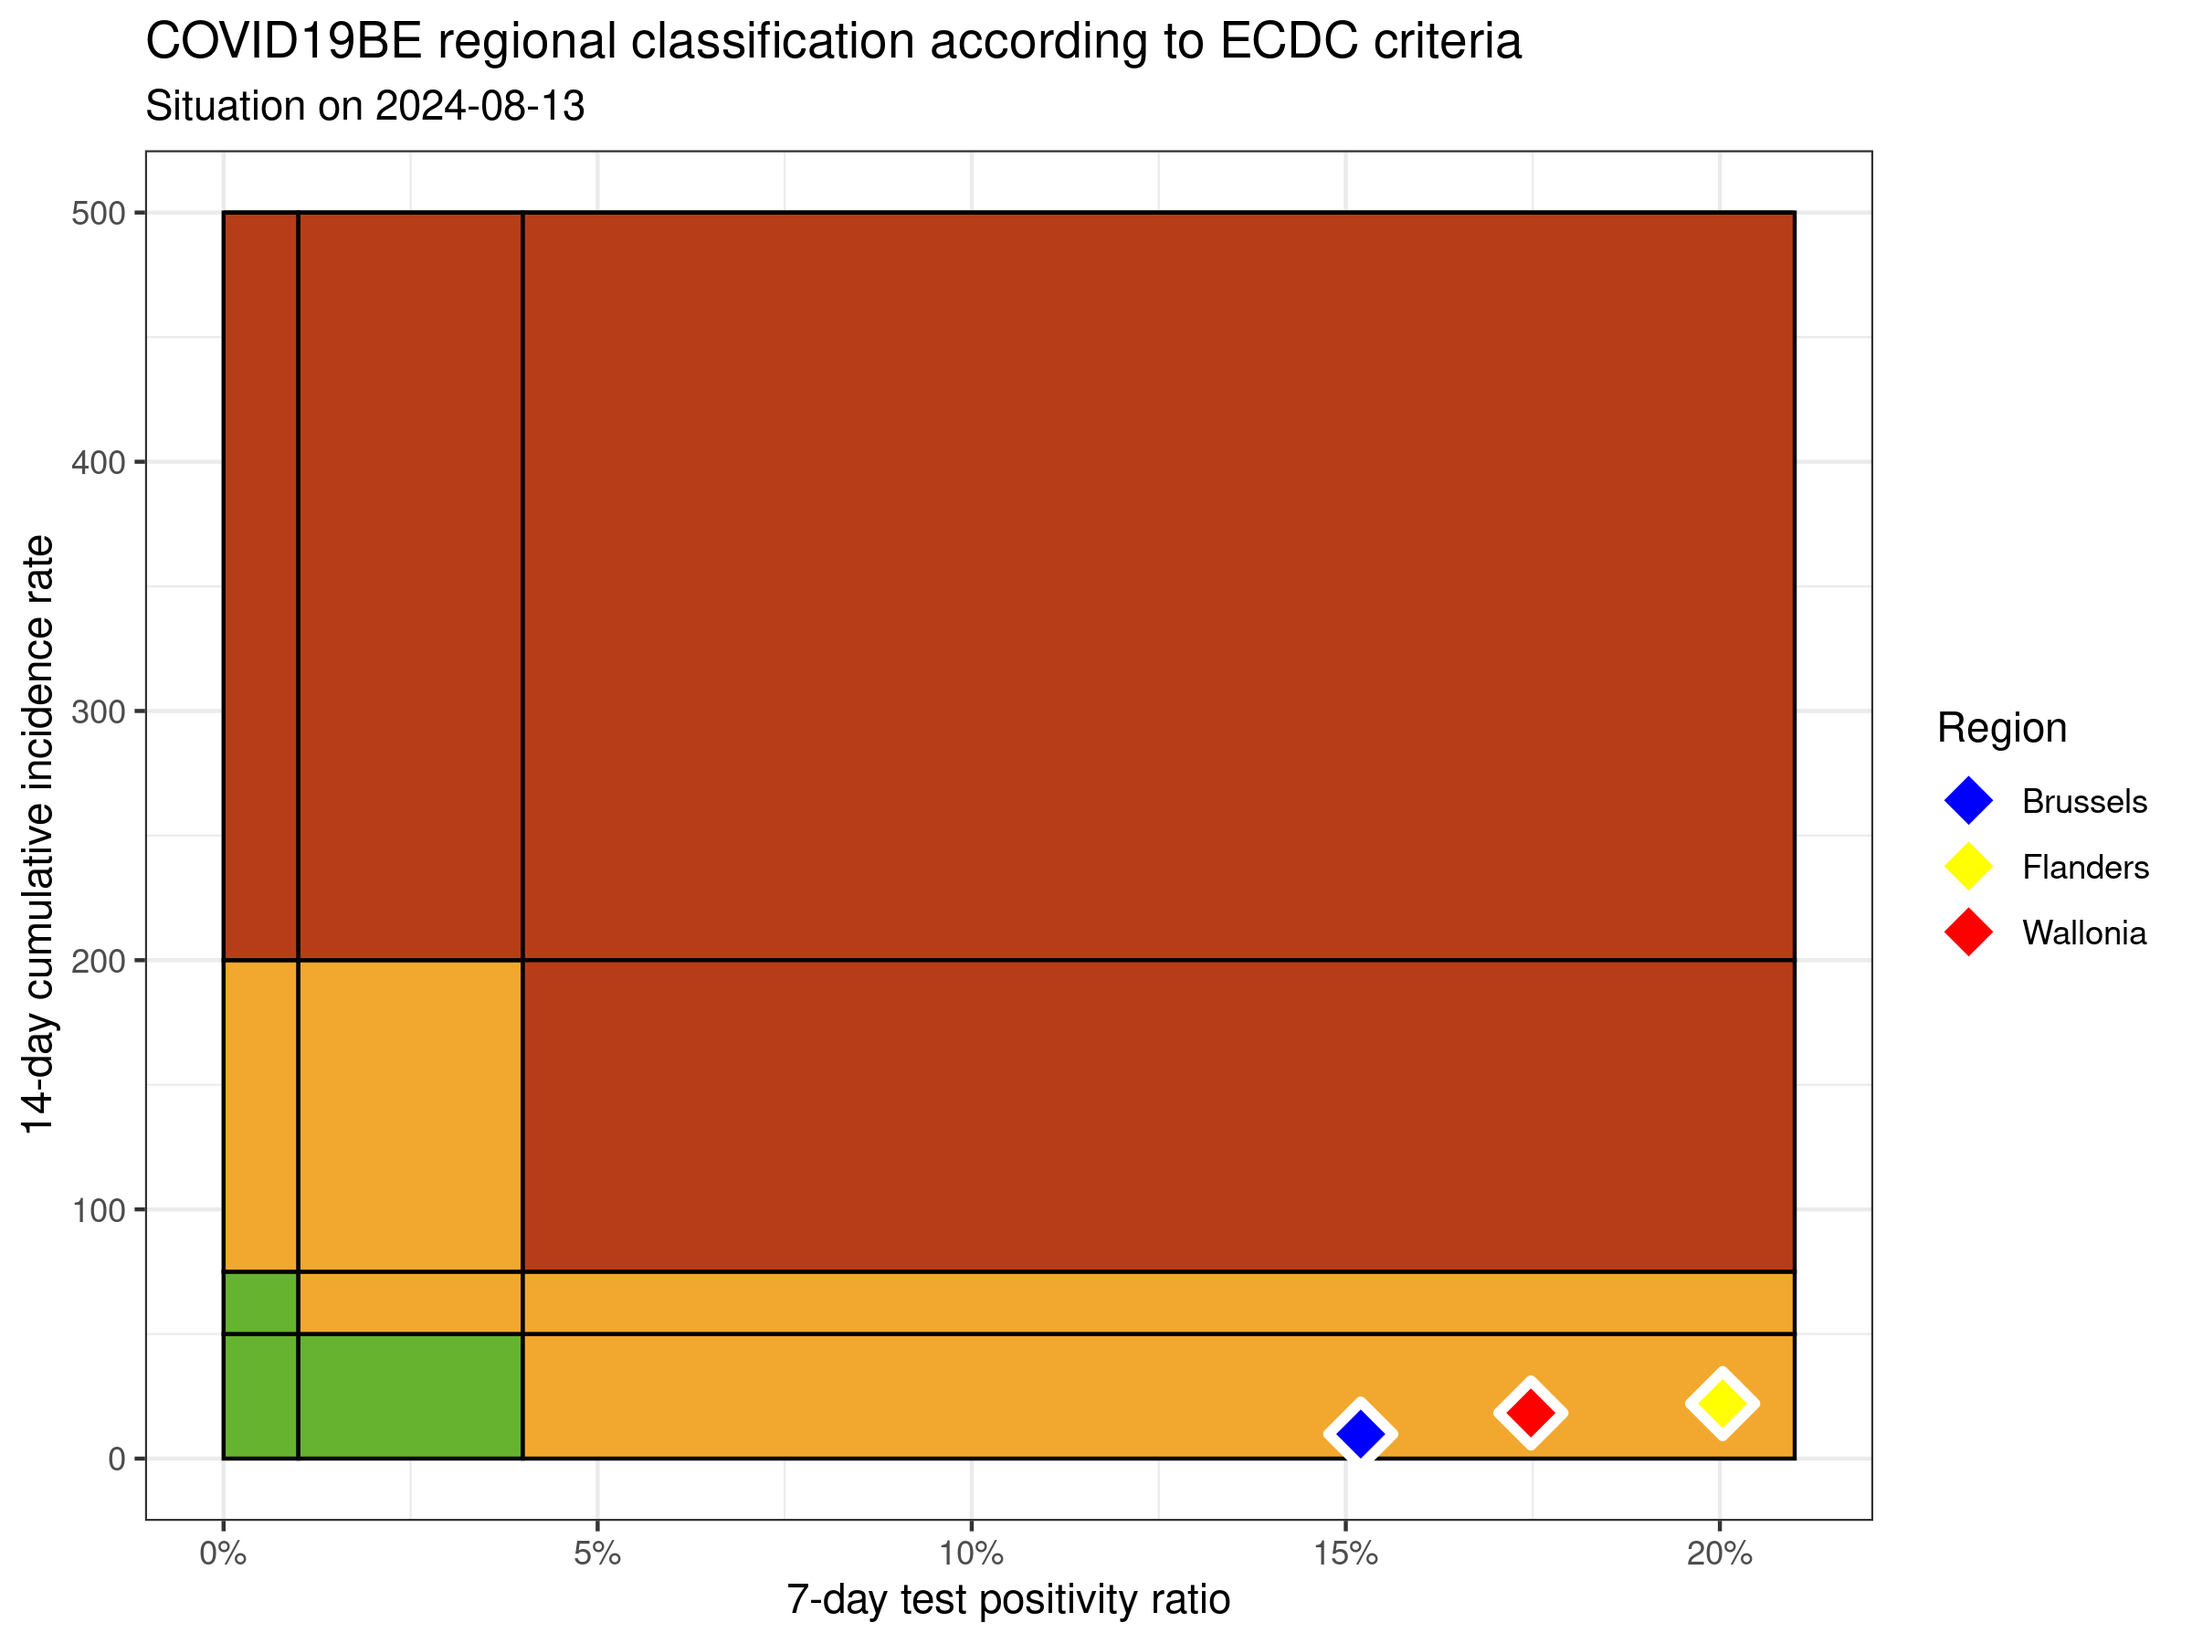
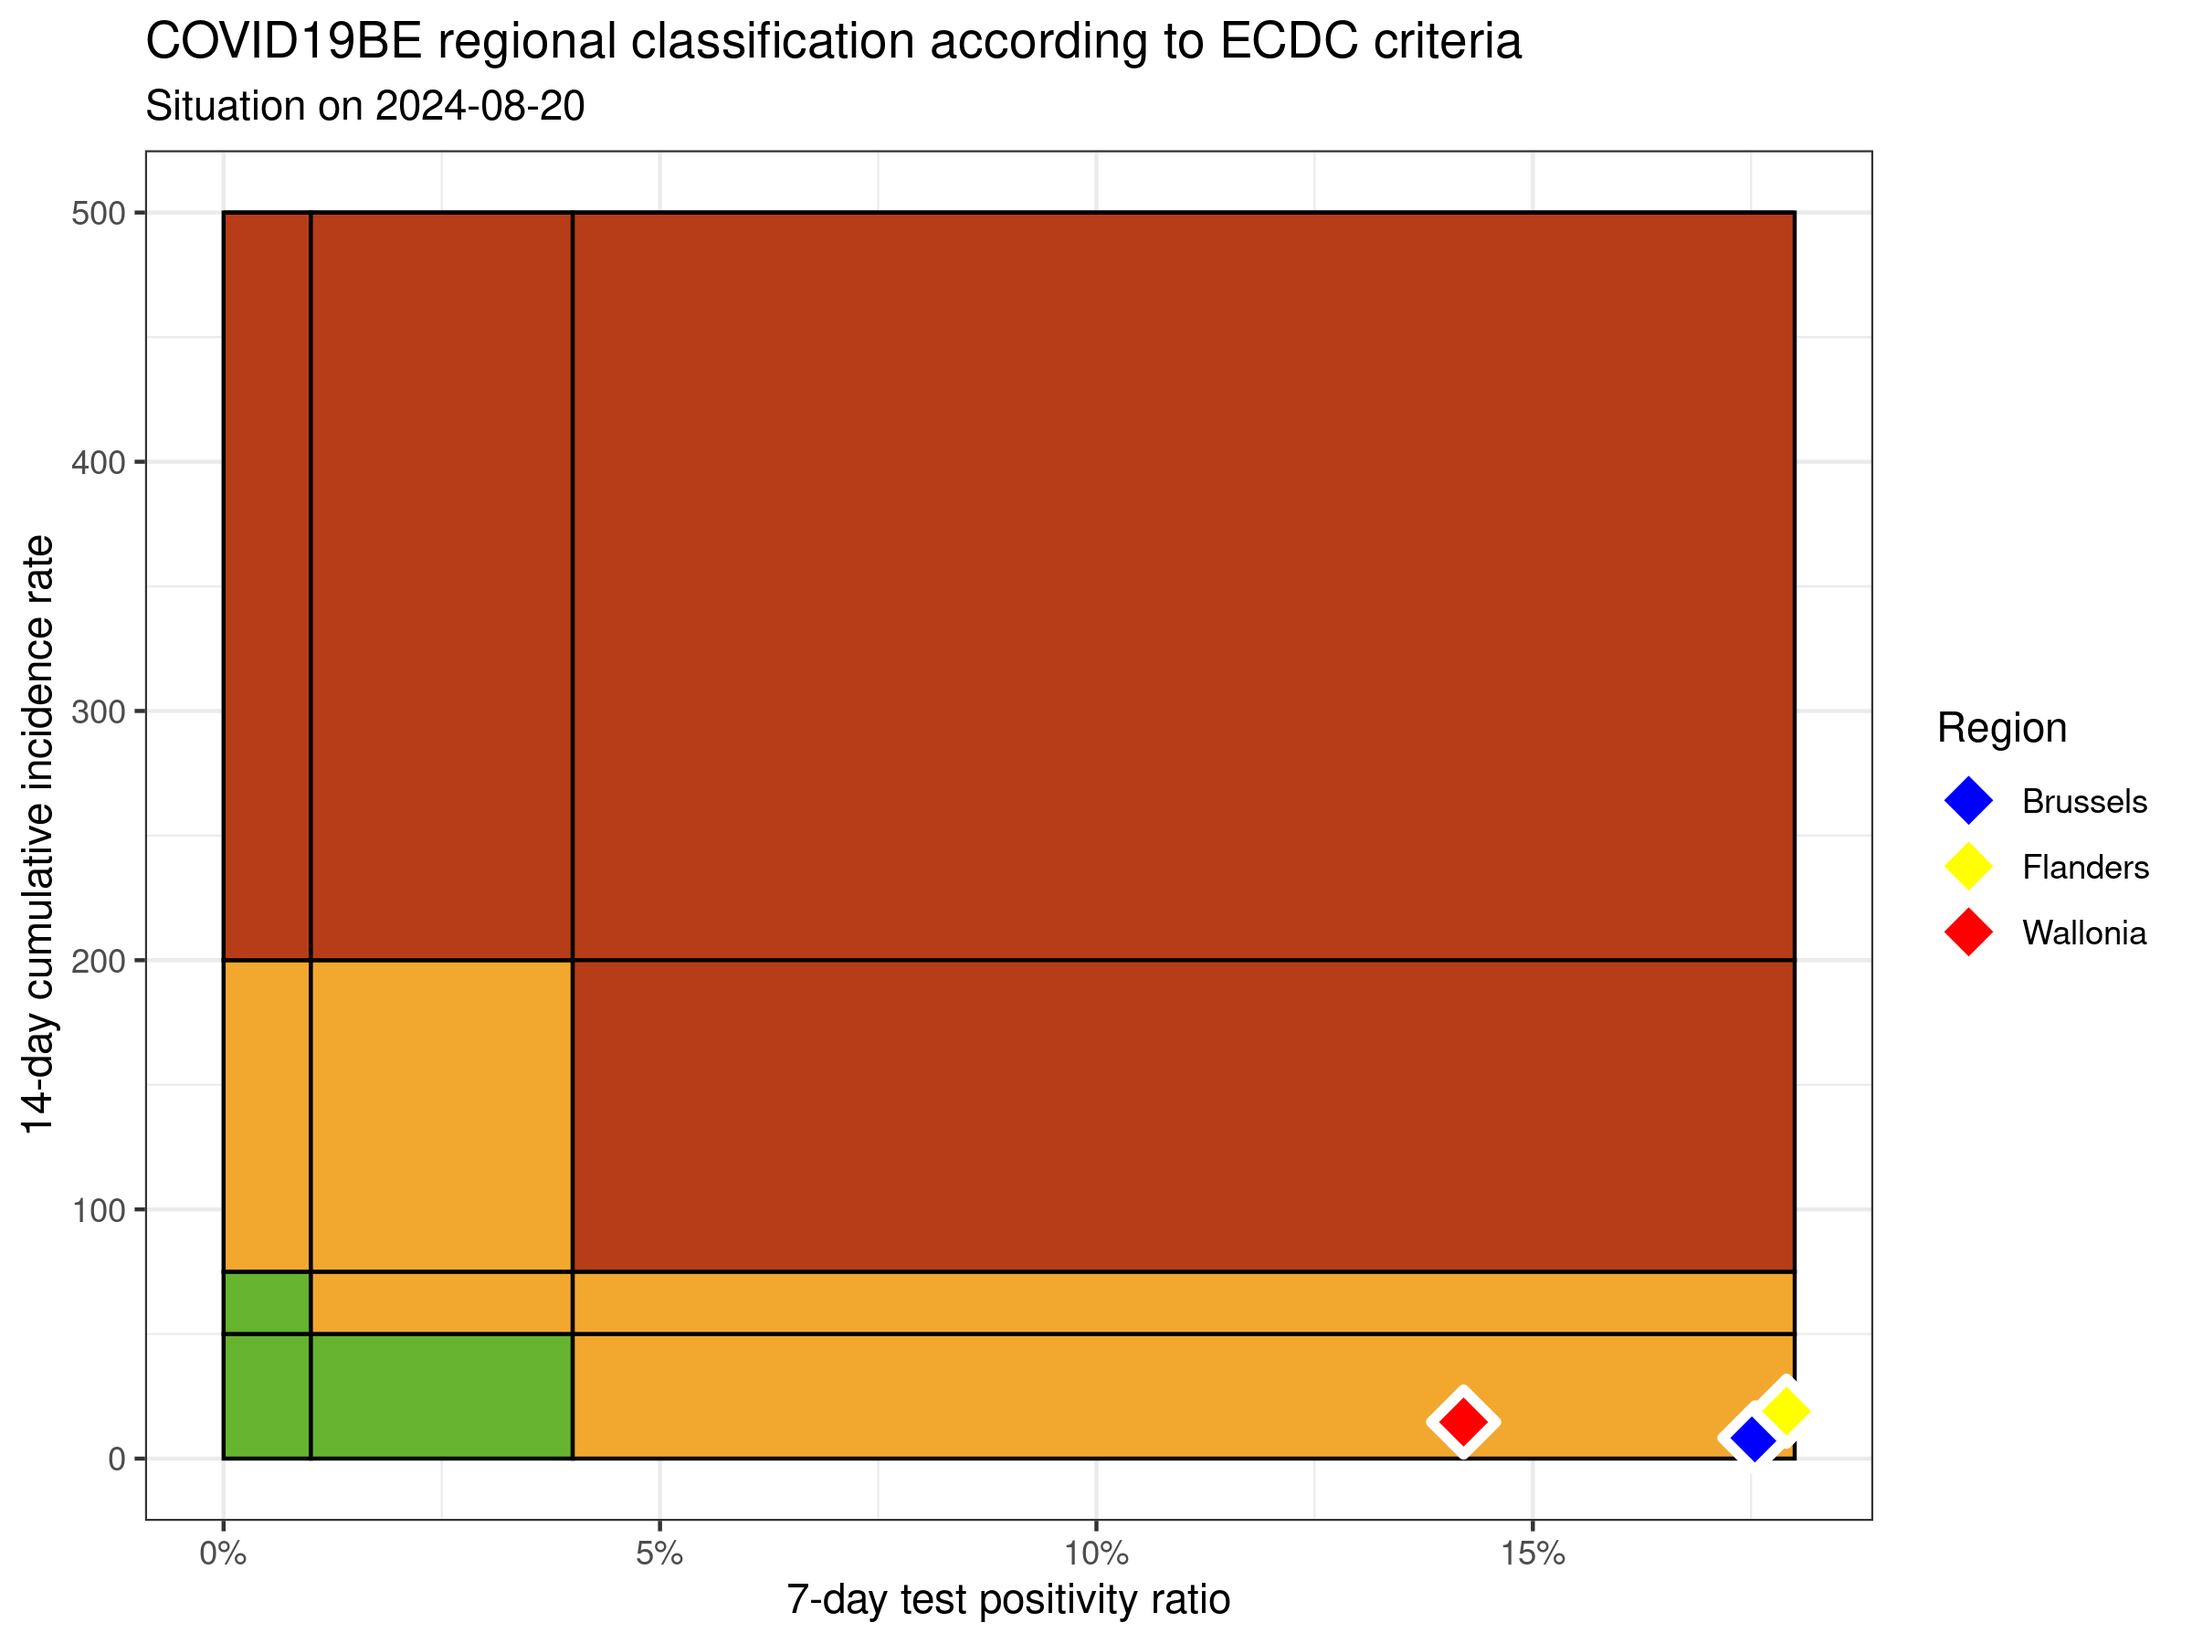
update situation

diff --git a/ecdc-trend/README.md b/ecdc-trend/README.md
@@ -11,9 +11,9 @@
 
 |          | INC14 | INC7 | TST7 | TST\_POS7 | REGION   |     POP | INC14\_RT |       PR7 |          GR |
 | :------- | ----: | ---: | ---: | --------: | :------- | ------: | --------: | --------: | ----------: |
-| Brussels |   120 |   50 |  375 |        57 | Brussels | 1219970 |  9.836308 | 0.1520000 | \-0.2857143 |
-| Flanders |  1468 |  695 | 4302 |       862 | Flanders | 6653062 | 22.065028 | 0.2003719 | \-0.1009056 |
-| Wallonia |   668 |  296 | 2043 |       357 | Wallonia | 3648206 | 18.310370 | 0.1747430 | \-0.2043011 |
+| Brussels |   101 |   51 |  342 |        60 | Brussels | 1219970 |  8.278892 | 0.1754386 |   0.0200000 |
+| Flanders |  1265 |  569 | 3993 |       715 | Flanders | 6653062 | 19.013801 | 0.1790634 | \-0.1824713 |
+| Wallonia |   535 |  235 | 1985 |       282 | Wallonia | 3648206 | 14.664742 | 0.1420655 | \-0.2166667 |
 
 ### Read more
 
